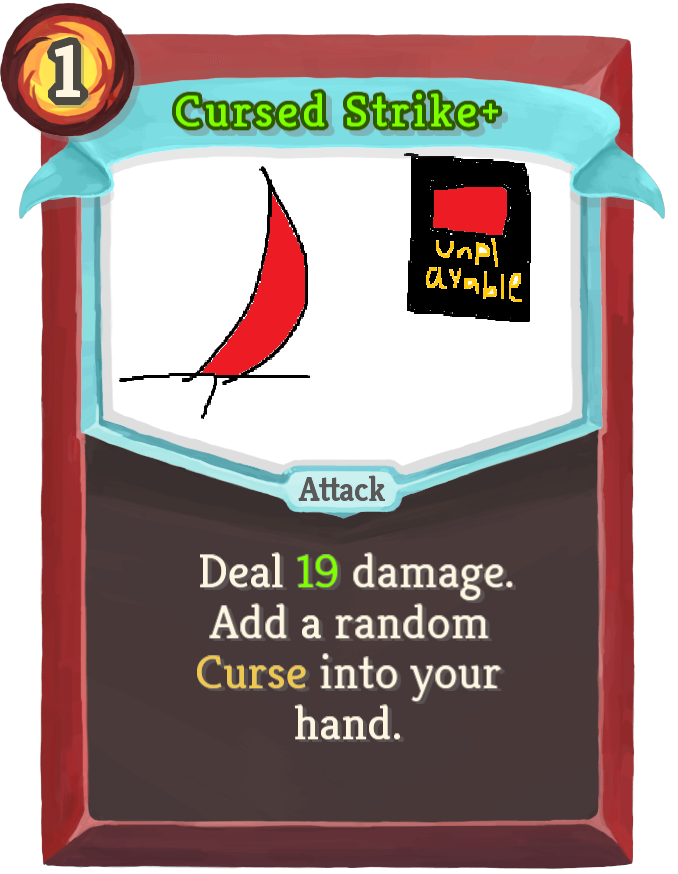
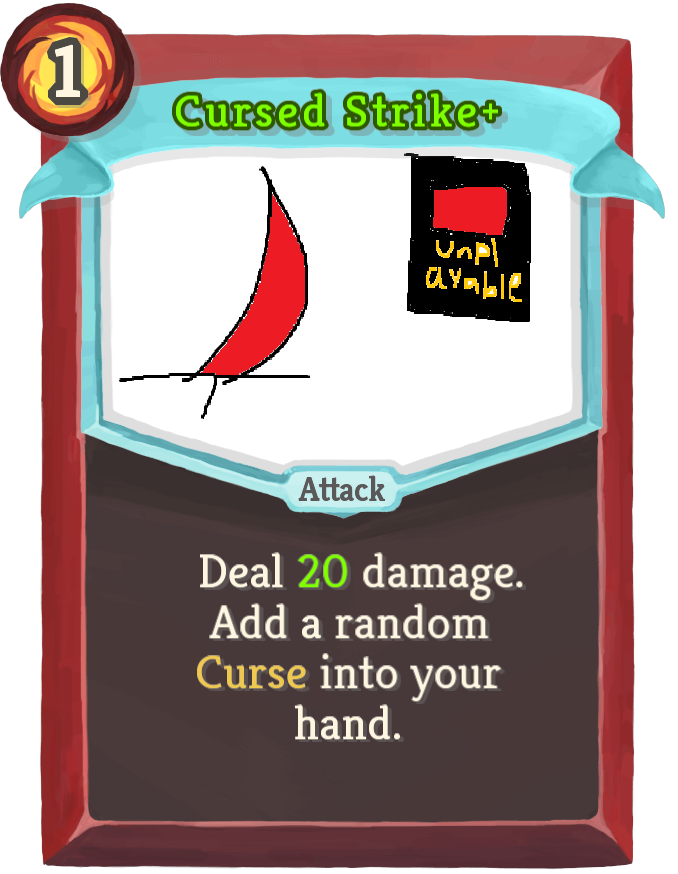
seemsgood

Changed region(s): [[0.4336, 0.6178, 0.7743, 0.7105]]

diff --git a/vexMod/cards.html b/vexMod/cards.html
@@ -81,7 +81,7 @@ Apply 1(2) Vulnerable.</td>
     <td>Uncommon</td>
     <td>Attack</td>
     <td>1</td>
-    <td>Deal 13(19) damage.
+    <td>Deal 14(20) damage.
 Add a random Curse into your hand.</td>
   </tr>
   
@@ -205,7 +205,7 @@ Next turn, gain 6(8) Block.</td>
     <td>Common</td>
     <td>Skill</td>
     <td>1</td>
-    <td>Gain 4(5) Block.
+    <td>Gain 3(4) Block.
 Apply 3(4) Poison.</td>
   </tr>
   
@@ -382,7 +382,7 @@ Does an additional effect based on your next Orb.</td>
     <td>Common</td>
     <td>Attack</td>
     <td>1</td>
-    <td>Deal 9(13) damage.
+    <td>Deal 10(13) damage.
 Choose a card in your hand.
 Add a copy of that card into your discard pile.</td>
   </tr>

diff --git a/vexMod/cards.md b/vexMod/cards.md
@@ -5,7 +5,7 @@
 | Blood Guard | ![](small-card-images/BloodGuard.png) | ![](small-card-images/BloodGuardPlus.png) | Uncommon | Skill | 1 | Lose 4(3) HP. Gain 15(17) Block. |
 | Blood to Gold | ![](small-card-images/BloodtoGold.png) | ![](small-card-images/BloodtoGoldPlus.png) | Uncommon | Skill | 0 | Lose 3 HP. Gain 10(15) Gold. Draw 1 card. |
 | Crumbling Crash | ![](small-card-images/CrumblingCrash.png) | ![](small-card-images/CrumblingCrashPlus.png) | Uncommon | Skill | 0 | Remove all Block from the enemy. Apply 1(2) Vulnerable. |
-| Cursed Strike | ![](small-card-images/CursedStrike.png) | ![](small-card-images/CursedStrikePlus.png) | Uncommon | Attack | 1 | Deal 13(19) damage. Add a random Curse into your hand. |
+| Cursed Strike | ![](small-card-images/CursedStrike.png) | ![](small-card-images/CursedStrikePlus.png) | Uncommon | Attack | 1 | Deal 14(20) damage. Add a random Curse into your hand. |
 | Elimination | ![](small-card-images/Elimination.png) | ![](small-card-images/EliminationPlus.png) | Uncommon | Attack | 1 | Deal 10(12) damage. Exhaust (any number of cards in) your hand. |
 | Ground Pound | ![](small-card-images/GroundPound.png) | ![](small-card-images/GroundPoundPlus.png) | Uncommon | Attack | 2 | Deal 8(10) damage. Deal 8(10) damage to ALL enemies. |
 | Hatred | ![](small-card-images/Hatred.png) | ![](small-card-images/HatredPlus.png) | Uncommon | Power | 1 | (Innate.)  At the start of your turn, add a random Attack to your hand. |
@@ -16,7 +16,7 @@
 | Strike Storm | ![](small-card-images/StrikeStorm.png) | ![](small-card-images/StrikeStormPlus.png) | Rare | Power | 3 | Ethereal. (not Ethereal.) Whenever you play a non-Attack card, play a πStrike. |
 | Pinpoint Kick | ![](small-card-images/PinpointKick.png) | ![](small-card-images/PinpointKickPlus.png) | Common | Attack | 1 | Deal 10(13) damage. If this breaks the enemy's Block, apply 1(2) Vulnerable. |
 | Shadow Strike | ![](small-card-images/ShadowStrike.png) | ![](small-card-images/ShadowStrikePlus.png) | Common | Attack | 1 | Deal 6(8) damage. Next turn, gain 6(8) Block. |
-| Venom Sigh | ![](small-card-images/VenomSigh.png) | ![](small-card-images/VenomSighPlus.png) | Common | Skill | 1 | Gain 4(5) Block. Apply 3(4) Poison. |
+| Venom Sigh | ![](small-card-images/VenomSigh.png) | ![](small-card-images/VenomSighPlus.png) | Common | Skill | 1 | Gain 3(4) Block. Apply 3(4) Poison. |
 | Bandage Whip | ![](small-card-images/BandageWhip.png) | ![](small-card-images/BandageWhipPlus.png) | Uncommon | Attack | 1 | Deal 8(10) damage. Enemy loses 2(3) Strength this turn. |
 | Entry Plan | ![](small-card-images/EntryPlan.png) | ![](small-card-images/EntryPlanPlus.png) | Uncommon | Attack | 0 | Draw 1 card. If you draw an Attack, deal 4(6) damage. |
 | Prepare Victim | ![](small-card-images/PrepareVictim.png) | ![](small-card-images/PrepareVictimPlus.png) | Uncommon | Skill | 1(0) | Apply Slow. Exhaust. |
@@ -32,7 +32,7 @@
 | Charge Beam | ![](small-card-images/ChargeBeam.png) | ![](small-card-images/ChargeBeamPlus.png) | Common | Attack | 1 | Deal 7(10) damage. Next turn, draw 1 additional card. |
 | Orb Boomerang | ![](small-card-images/OrbBoomerang.png) | ![](small-card-images/OrbBoomerangPlus.png) | Common | Attack | 1 | Deal 6(9) damage. Does an additional effect based on your next Orb. |
 | Orb Shield | ![](small-card-images/OrbShield.png) | ![](small-card-images/OrbShieldPlus.png) | Common | Skill | 1(0) | Gain 4 Block for each unique Orb you have. |
-| Rocket Punch | ![](small-card-images/RocketPunch.png) | ![](small-card-images/RocketPunchPlus.png) | Common | Attack | 1 | Deal 9(13) damage. Choose a card in your hand. Add a copy of that card into your discard pile. |
+| Rocket Punch | ![](small-card-images/RocketPunch.png) | ![](small-card-images/RocketPunchPlus.png) | Common | Attack | 1 | Deal 10(13) damage. Choose a card in your hand. Add a copy of that card into your discard pile. |
 | Golden Lightning | ![](small-card-images/GoldenLightning.png) | ![](small-card-images/GoldenLightningPlus.png) | Uncommon | Skill | 2(1) | Channel 1 [#EFC851]Golden [#EFC851]πLightning. Exhaust. |
 | Hex | ![](small-card-images/Hex.png) | ![](small-card-images/HexPlus.png) | Uncommon | Skill | 2(1) | Apply 3 Vulnerable. Apply 3 Lock-On. Evoke your next Orb. |
 | Reflex Channel | ![](small-card-images/ReflexChannel.png) | ![](small-card-images/ReflexChannelPlus.png) | Uncommon | Skill | 1 | If the enemy intends to attack, Channel 1 Frost. Otherwise, Channel 1 Lightning.  (Draw 1 card.) |
